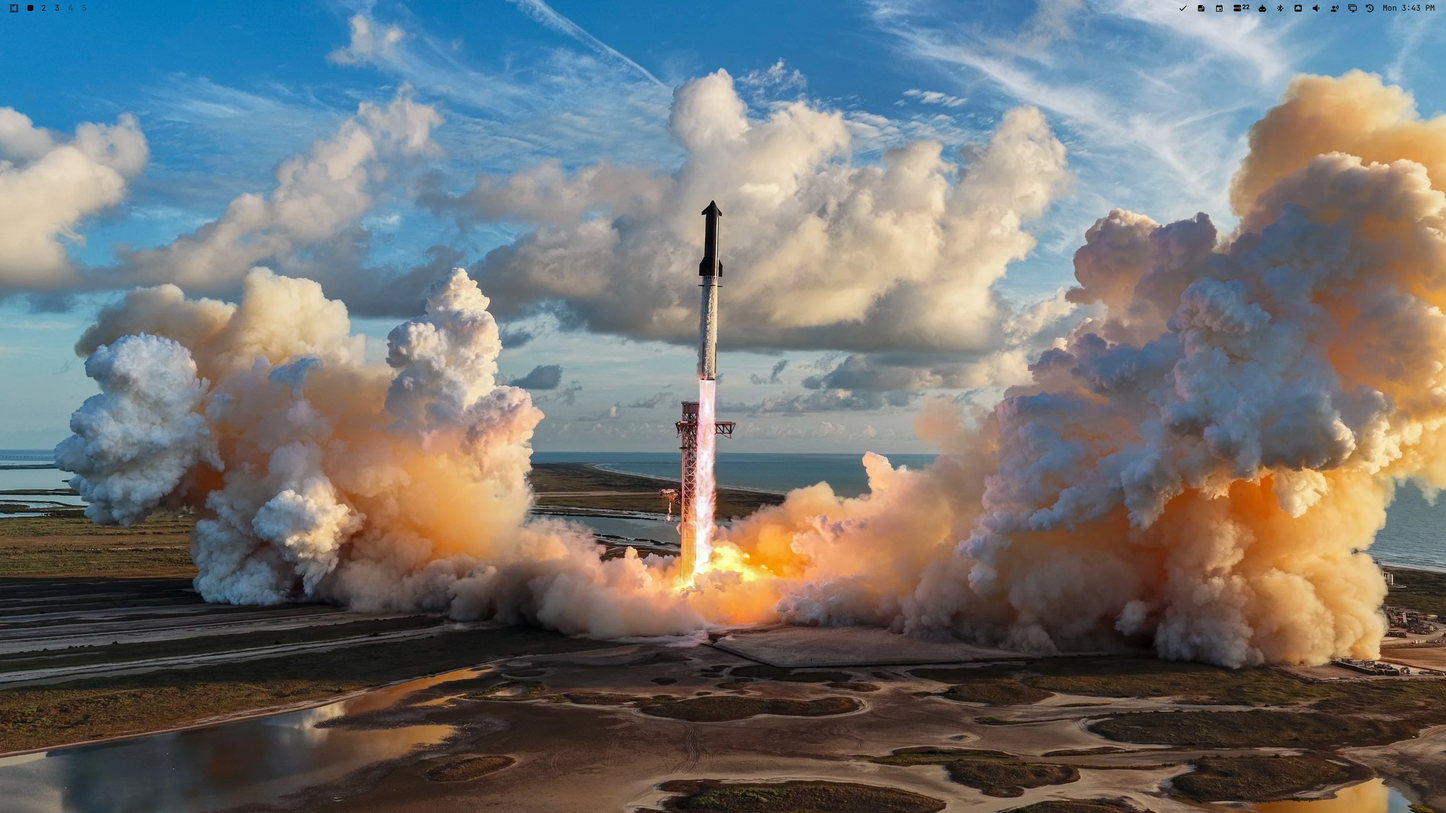
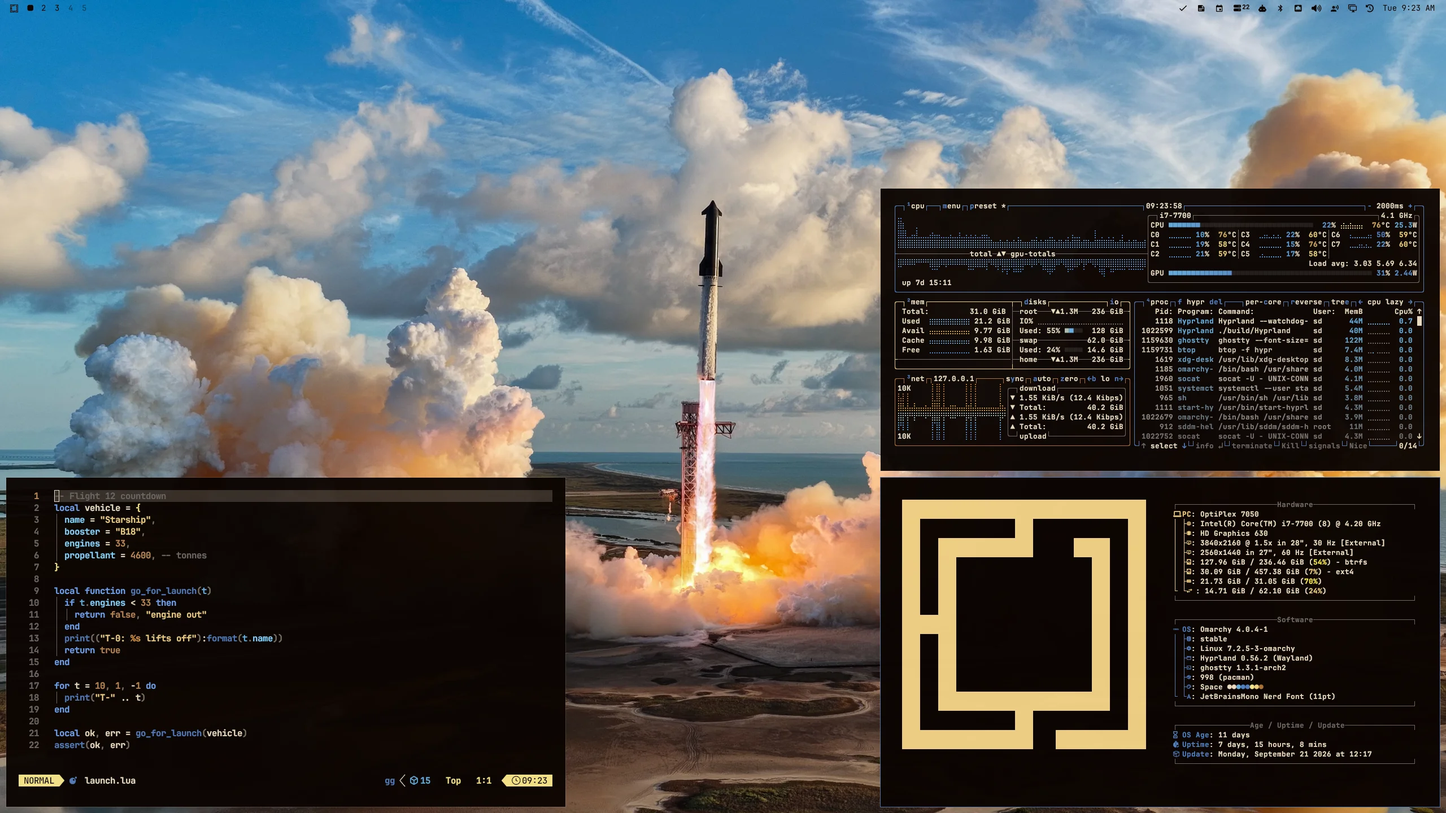
0.28.0 Replace preview.png and screenshot.webp with a workspace 1 demo showing the Aether palette: nvim on a fake launch.lua bottom-left, btop filtered to Hyprland processes and About on the right, Starship launch visible in the middle

diff --git a/CHANGELOG.md b/CHANGELOG.md
@@ -2,6 +2,11 @@
 
 - Extra Space variants
 
+0.28.0
+
+  Update preview screenshot
+  Update README screenshot
+
 0.27.0
 
   Add Aether palette
